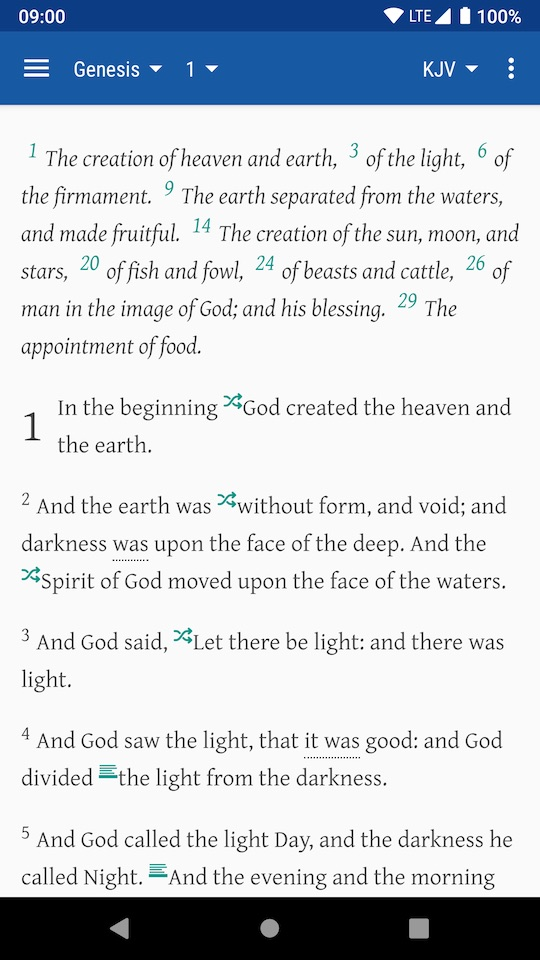
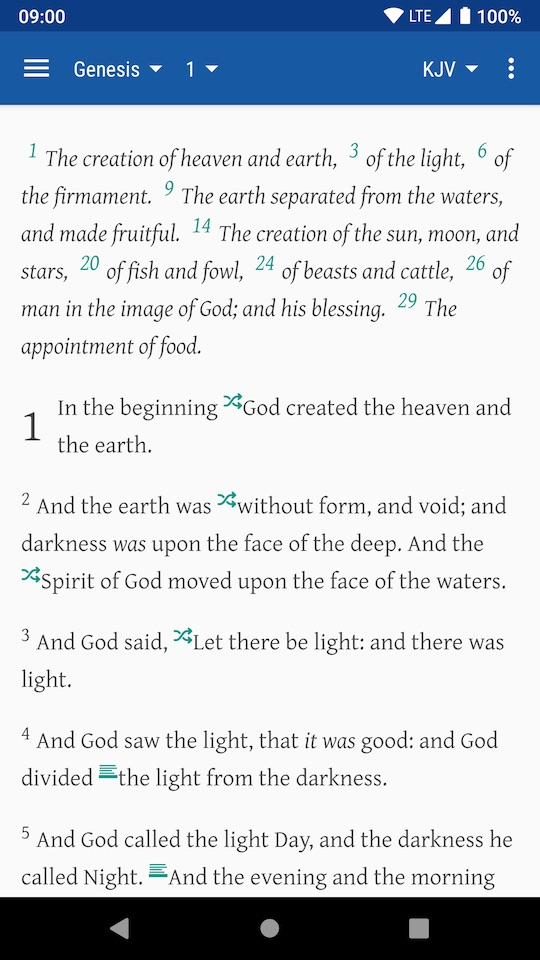
don't use dotted underline

Changed region(s): [[0.2074, 0.5312, 0.8889, 0.5938], [0.563, 0.75, 0.9481, 0.7812]]

diff --git a/README.md b/README.md
@@ -73,12 +73,7 @@ Please note, [Ps 90:1](https://www.tbsonlinebible.com/#en_PSA_90) starts with "L
 ### Technical Differences
 
 #### style differences
-For added words, Dove Bible prefer <span style="border-bottom: 1px dotted">added</span>(with dotted underline, invisible on GitHub, see screenshots below) to <i>added</i>. It's like this (Gen 1:2):
-
-- darkness <i>was</i> upon the face of the deep
-- darkness <i style="border-bottom: 1px dotted; font-style: normal">was</i> upon the face of the deep (invisible in GitHub, see screenshots below)
-
-And in original [Legacy TBS Online Bible](https://tbsdigital.net), letter is used for cross reference, and number is used for footnote. Dove Bible use icon and omit the letter or number.
+In original [Legacy TBS Online Bible](https://tbsdigital.net), letter is used for cross reference, and number is used for footnote. Dove Bible use icon and omit the letter or number.
 
 <img src="dove-bible-kjv.jpg" width="250">
 
